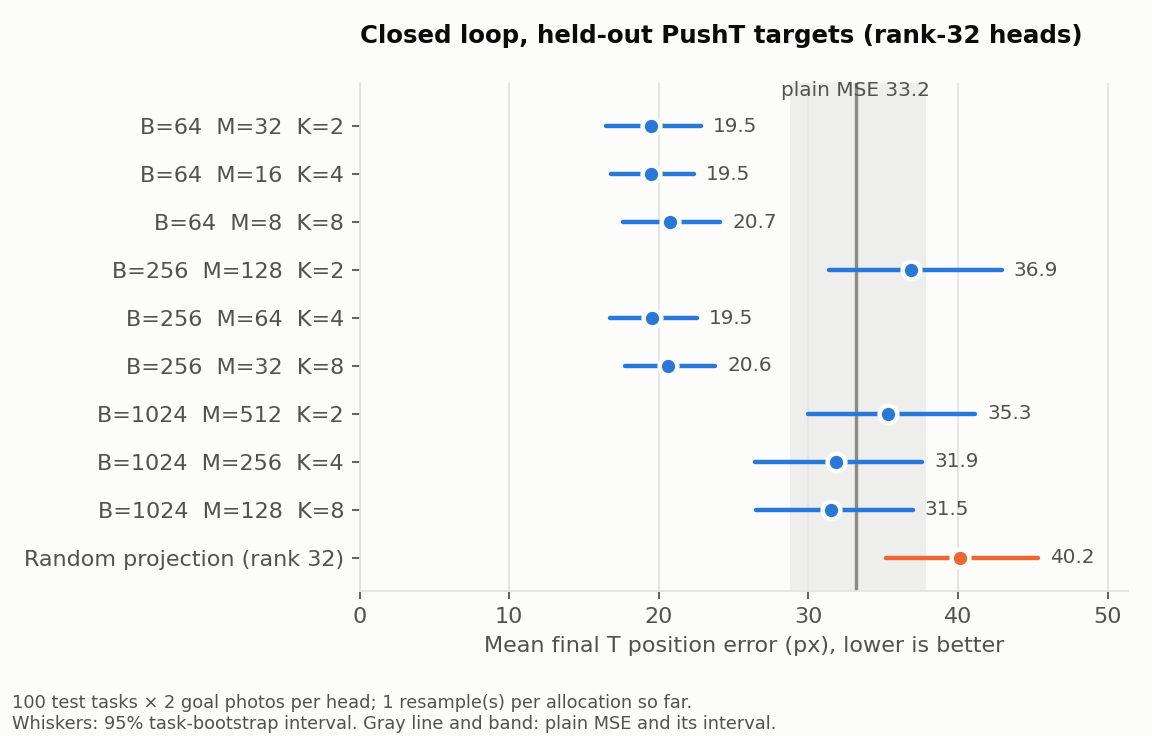
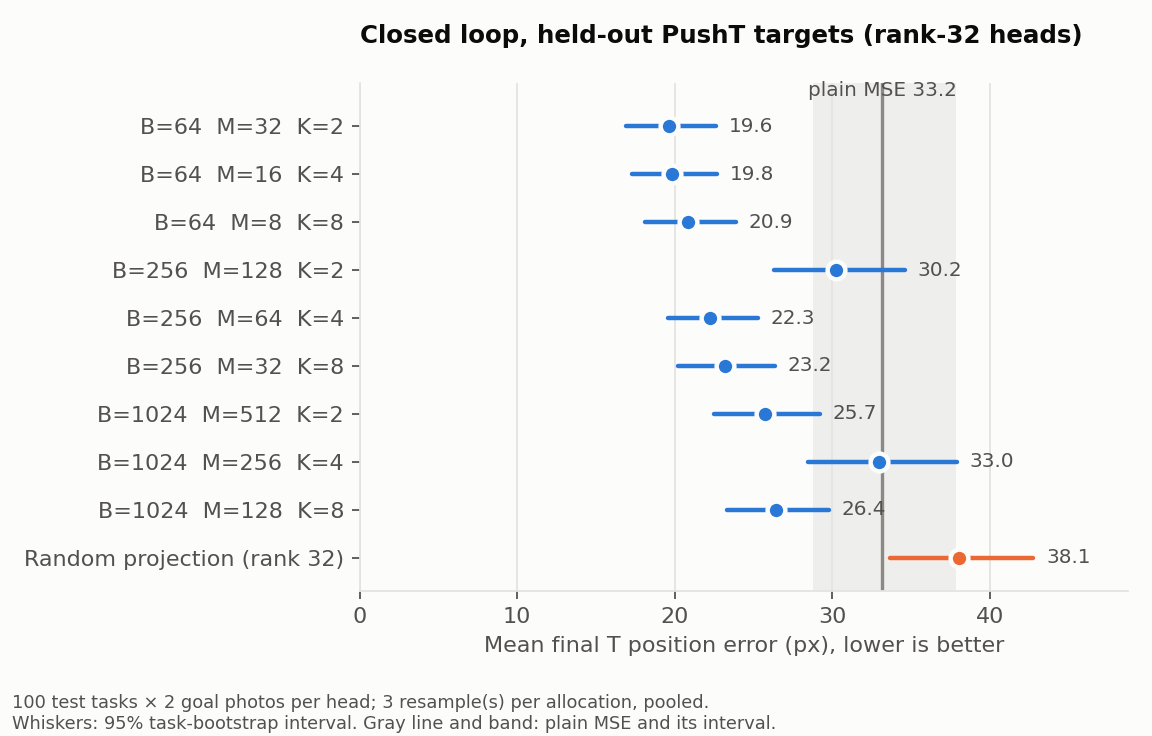
Report full PushT closed-loop results for all 70 goal heads
All 3 resamples of the 9 rank-32 allocations, shuffled-label heads,
random-projection and coordinate-subset controls, and ranks 4/16/128 are
now evaluated in closed loop. Update the report table, controls and
conclusions, regenerate the closed-loop figure, and drop the finished
closed-loop item from remaining work.

diff --git a/code/experiments/plot_pusht_head_results.py b/code/experiments/plot_pusht_head_results.py
@@ -103,7 +103,7 @@ def closed_loop(results: Path, out: Path) -> None:
     ax.set_xlabel("Mean final T position error (px), lower is better")
     ax.set_title("Closed loop, held-out PushT targets (rank-32 heads)", pad=18)
     fig.text(0.01, 0.01, f"100 test tasks × 2 goal photos per head; {'/'.join(map(str, resamples))} resample(s) "
-             "per allocation so far.\nWhiskers: 95% task-bootstrap interval. Gray line and band: plain MSE and its "
+             "per allocation, pooled.\nWhiskers: 95% task-bootstrap interval. Gray line and band: plain MSE and its "
              "interval.", fontsize=8, color=INK_2)
     fig.tight_layout(rect=(0, 0.07, 1, 1))
     fig.savefig(out / "pusht_head_closed_loop.png", dpi=160)

diff --git a/docs/pusht_linear_head.md b/docs/pusht_linear_head.md
@@ -1,10 +1,10 @@
-# PushT learned linear goal head: what was done and results so far
+# PushT learned linear goal head: what was done and results
 
-Status (2026-11-09): data, head training, the photo-level test and the fixed
-candidate bank are **complete**. The closed-loop evaluation is **partly done**:
-plain MSE, one resample of each of the 9 rank-32 allocations, and one
-random-projection control. The rest runs overnight on a Mac (see
-[Remaining work](#remaining-work)). The full plan is in
+Status (2026-11-17): data, head training, the photo-level test, the fixed
+candidate bank and the closed-loop evaluation are **complete**. The closed loop
+covers all 70 heads: plain MSE, 3 resamples of each of the 9 rank-32
+allocations, their shuffled-label heads, random-projection and coordinate-subset
+controls, and the val-best allocation at ranks 4/16/128. The full plan is in
 [`linear_head_plan.md`](linear_head_plan.md). PushT comes first, before the
 proposal's Meta-World Push.
 
@@ -99,34 +99,55 @@ decisions made from predicted features. It does.
 Compression barely matters for learned heads: rank 4 (96×) is as good as
 rank 128 (3×). Random projections get worse as they compress more.
 
-### 6.4 Closed loop: large gains at B ≤ 256, none yet at B = 1024
+### 6.4 Closed loop: the head beats MSE at every allocation but one; small budgets are best
 
 Paired CEM (4 replans × 2 iterations × 64 samples, 2-chunk horizon). Every
 cost uses the same start states, the same random numbers and the same budget;
-only the terminal cost changes. 100 test tasks × 2 goal photos per head.
+only the terminal cost changes. 100 test tasks × 2 goal photos per head, and
+3 resamples per allocation. Following the proposal, each task's rows (2 photos ×
+3 resamples) are averaged before the task bootstrap.
 
 ![Closed-loop final T error per allocation](figures/pusht_head_closed_loop.png)
 
-| Rank 32, resample r0 | K = 2 | K = 4 | K = 8 |
+| Rank 32, 3 resamples | K = 2 | K = 4 | K = 8 |
 |---|---:|---:|---:|
-| B = 64 | **19.5** (−13.7 [−18.4, −9.2]) | **19.5** (−13.7 [−18.3, −9.4]) | **20.7** (−12.5 [−17.1, −8.1]) |
-| B = 256 | 36.9 (+3.7 [−2.1, 9.6]) | **19.5** (−13.7 [−18.4, −9.2]) | **20.6** (−12.6 [−17.2, −8.1]) |
-| B = 1024 | 35.4 (+2.2 [−3.5, 8.1]) | 31.9 (−1.3 [−7.2, 4.5]) | 31.5 |
+| B = 64 | **19.6** (−13.5 [−18.3, −9.1]) | **19.8** (−13.3 [−17.9, −9.1]) | **20.9** (−12.3 [−16.8, −8.0]) |
+| B = 256 | 30.2 (−3.0 [−7.2, +1.3]) | **22.3** (−10.9 [−14.9, −6.9]) | **23.2** (−10.0 [−14.2, −6.0]) |
+| B = 1024 | **25.7** (−7.5 [−11.7, −3.4]) | 33.0 (−0.2 [−5.2, +4.8]) | **26.4** (−6.8 [−11.2, −2.3]) |
 
 Mean final T position error in px (paired difference vs plain MSE, 95% task
-bootstrap). Plain MSE: **33.2 px**, success within 20 px 0.47. The good heads
-reach about 0.63. Random rank-32 projection: 40.2 px.
+bootstrap). Plain MSE: **33.2 px**, success within 20 px 0.47. The B = 64
+heads reach 0.63.
 
-How to read this, with caution:
-- At B = 64 and most of B = 256, the head cuts final T error by ~40%, and the
-  intervals are well away from zero.
-- All three B = 1024 heads and B = 256 K = 2 are no better than MSE. The
-  fixed bank also ranked the B = 1024 heads worst, though they still beat MSE
-  there. One untested explanation: every allocation trains for the same 2000
-  steps, so B = 1024 sees each photo fewer times. Equal steps per allocation is
-  required by the proposal (Algorithm 1, step 3), so the main comparison keeps it.
-- **Each cell is a single fit.** The proposal asks for 3 resamples per
-  allocation. r1 and r2 are queued, so the M-vs-K question is still open.
+| Control / rank (paired vs MSE, px) | Mean error | Diff vs MSE [95% CI] | Success ≤ 20 px |
+|---|---:|---:|---:|
+| Random projection, rank 32 (3 seeds) | 38.1 | +4.9 [+1.8, +7.9] | 0.42 |
+| Coordinate subset, 32 dims (3 seeds) | 29.6 | −3.6 [−5.8, −1.5] | 0.50 |
+| Shuffled-label heads, rank 32 (27 heads) | 71–86 | +38 to +53 | 0.04–0.13 |
+| Learned head, rank 4 (B256 M64 K4) | 20.1 | −13.0 [−17.4, −8.8] | 0.64 |
+| Learned head, rank 16 (B256 M32 K8) | 20.9 | −12.3 [−16.9, −8.0] | 0.62 |
+| Learned head, rank 128 (B64 M8 K8) | 20.7 | −12.5 [−16.9, −8.3] | 0.62 |
+
+What the full run shows:
+- **The head helps in closed loop.** 7 of 9 rank-32 allocations beat plain MSE
+  with intervals that exclude 0. At B = 64 final T error drops by ~40%
+  (33.2 → ~20 px). The two exceptions (B256 K2, B1024 K4) are no worse than
+  MSE.
+- **The gain comes from what the head learned.** A random rank-32 projection
+  is *worse* than MSE, a 32-dimension coordinate subset is only slightly
+  better, and shuffled-label heads fail (71–86 px).
+- **Rank barely matters,** as in the fixed bank: ranks 4, 16, 32 and 128 all
+  land at 20–23 px.
+- **M vs K has no consistent answer on PushT.** At B = 64 all three splits are
+  equal. At B = 256, K ≥ 4 is better than K = 2 (more agent positions per pose).
+  At B = 1024 the order is not monotone in K (25.7 / 33.0 / 26.4).
+- **Larger budgets are worse and less stable.** The B = 64 resamples agree
+  closely (18.7–23.2 px per head), while B = 1024 heads range from 19.7 to
+  37.8 px. Equal training steps per allocation (proposal Algorithm 1, step 3)
+  mean B = 1024 sees each photo far fewer times. That is the leading but
+  untested explanation, so it does not change the main comparison.
+- Native PushT success (the env's own coverage threshold) is ~1% for every
+  cost, so the pixel-distance and pose measures above carry the comparison.
 
 ## From the proposal vs. our additions
 
@@ -148,17 +169,10 @@ reports, and Meta-World Push.
 
 ## Remaining work
 
-1. Closed loop, in this order (`configs/pusht_head_closed_loop_order.txt`):
-   rank-32 shuffled control, resamples r1/r2 of all 9 allocations, remaining
-   rank-32 controls, then the val-best allocation at ranks 4/16/128. That is 59
-   heads at ~55 min each on an M2. It runs overnight only:
-   `caffeinate -dimsu bash code/scripts/run_pusht_head_closed_loop_night.sh`
-   (resumable; finished heads are skipped). On a GPU cluster the heads can be
-   split across jobs with `--heads`.
-2. Check the B = 1024 result with a separate diagnostic, e.g. longer training
+1. Check the B = 1024 result with a separate diagnostic, e.g. longer training
    of those heads. The main comparison keeps equal steps for every allocation,
    as Algorithm 1 requires.
-3. Meta-World Push, the proposal's environment: the code exists
+2. Meta-World Push, the proposal's environment: the code exists
    (`goal_groups.py`, `make_goal_groups.py`) but has not yet run in the
    simulator.
 
